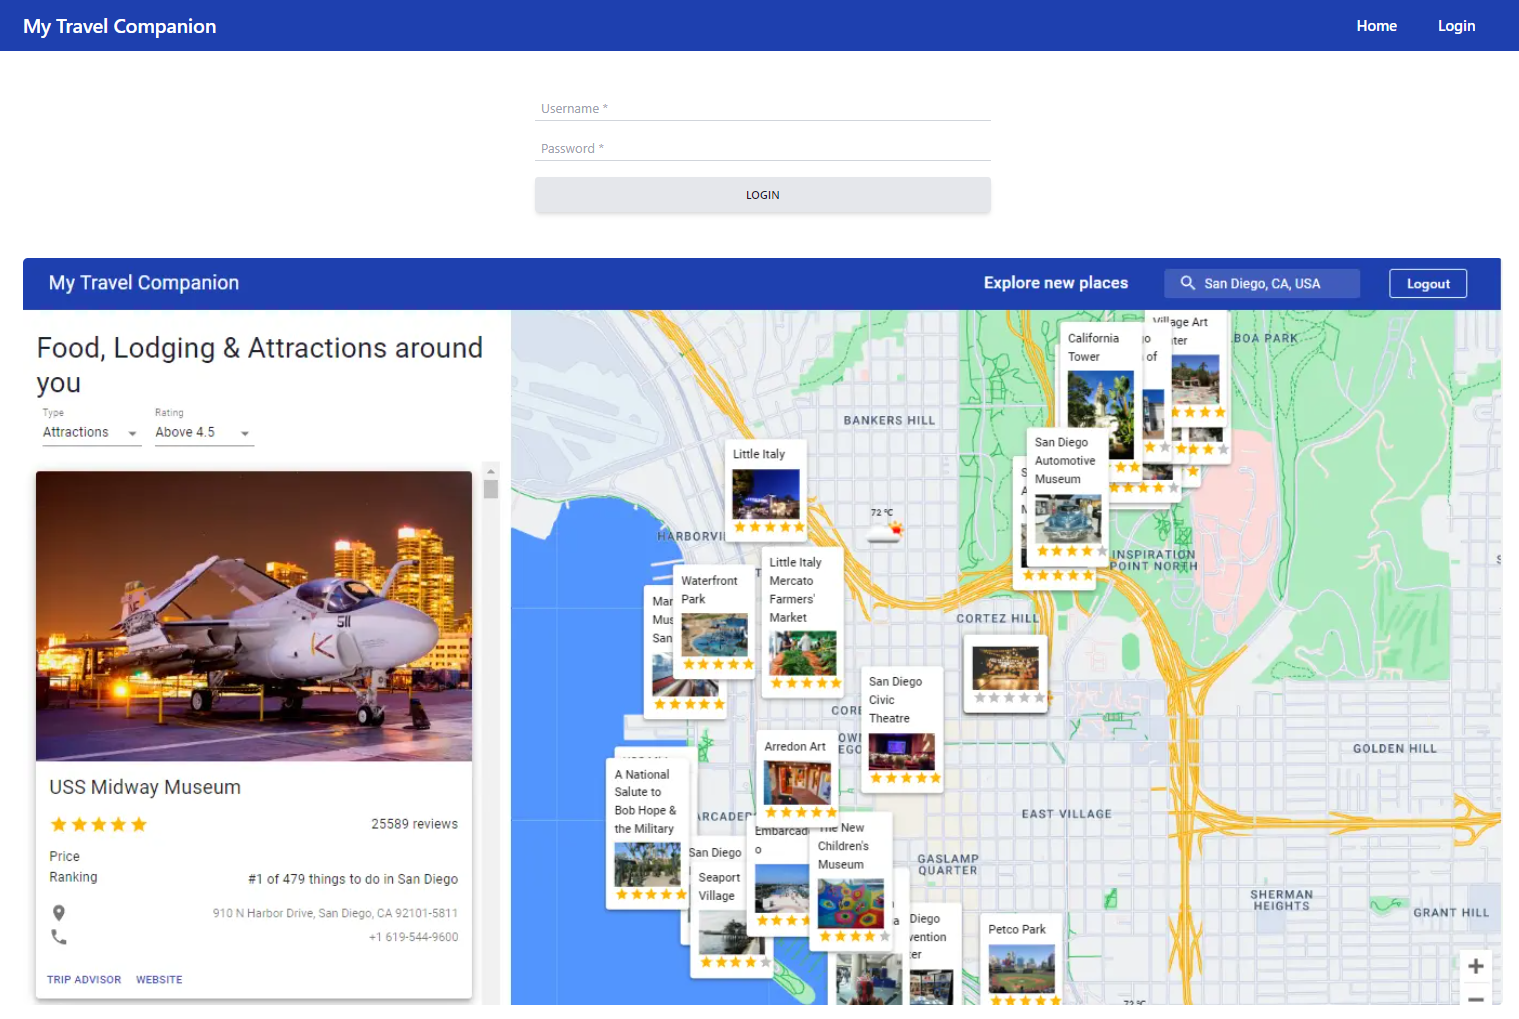
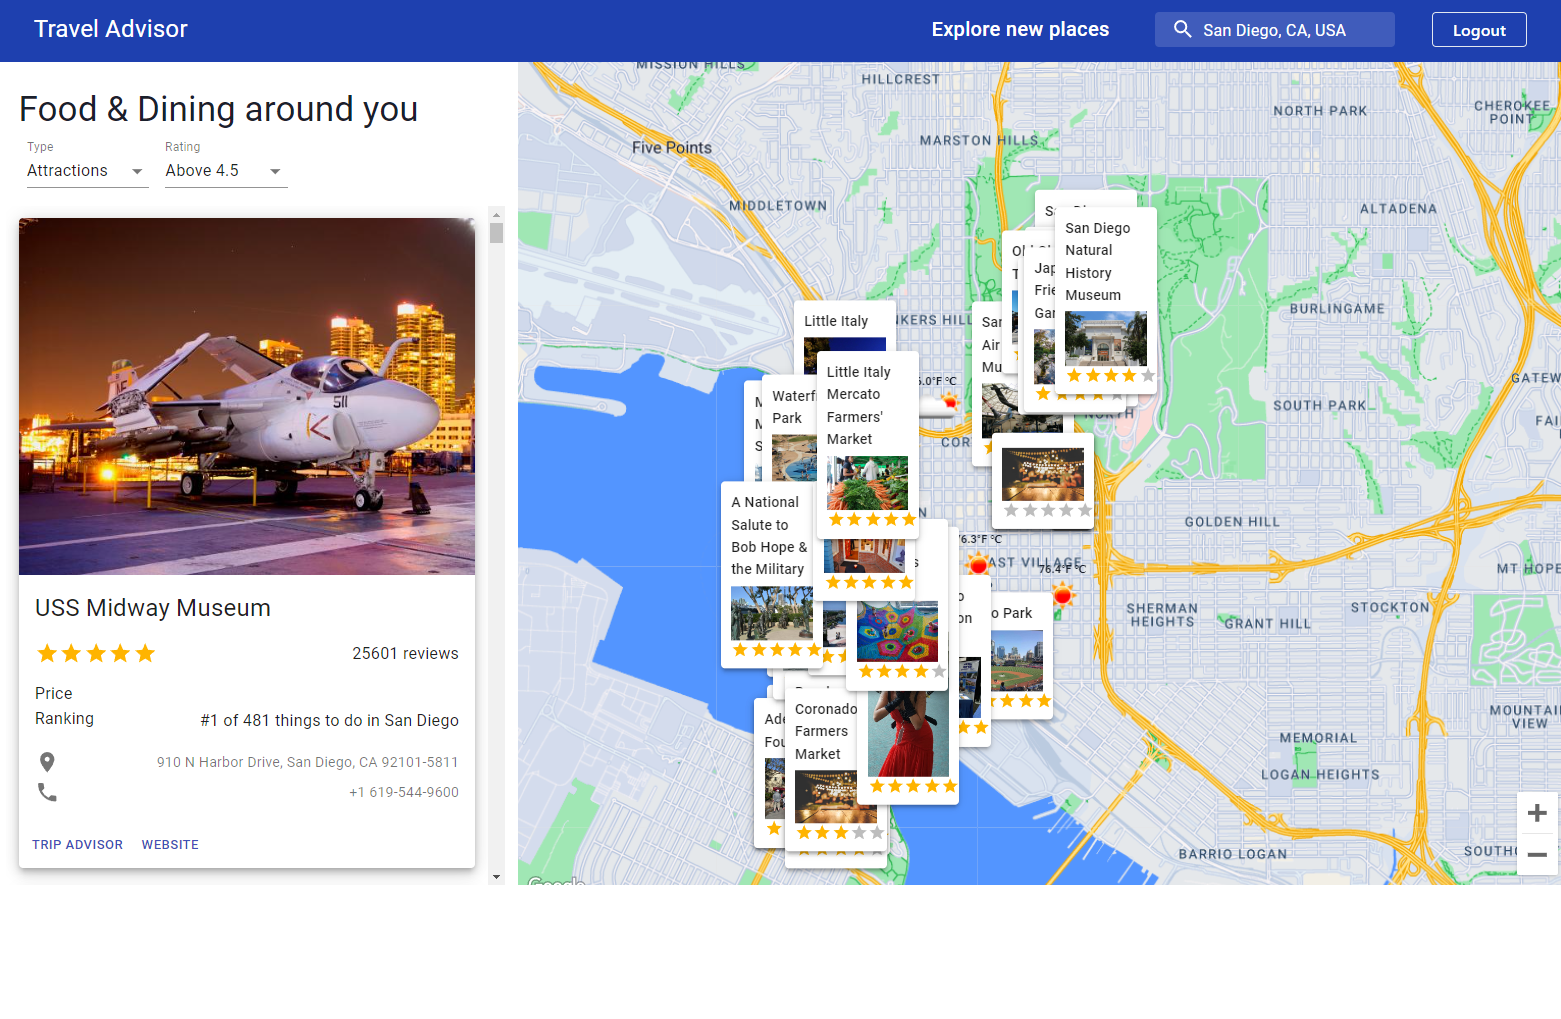
...

diff --git a/components/Map/Map.jsx b/components/Map/Map.jsx
@@ -11,7 +11,7 @@ import useStyles from "./styles.js";
 const WeatherIcon = ({ weather }) => {
   return (
     <div className="w-16 flex flex-col gap-0 justify-center items-center">
-      <span className="font-bold">{((((weather.main.temp) - 273.15)*1.8)+32).toFixed(1) } <span>&#8451;</span></span>
+      <span className="font-bold">{((((weather.main.temp) - 273.15)*1.8)+32).toFixed(1)  + "°F"} <span>&#8451;</span></span>
       <img height={900} className="w-16 -mt-3" src={`http://openweathermap.org/img/w/${weather.weather[0].icon}.png`} />
 
     </div>

diff --git a/pages/api/index.js b/pages/api/index.js
@@ -12,6 +12,7 @@ export const getPlacesData = async (type, sw, ne) => {
               bl_longitude: sw.lng,
               tr_longitude: ne.lng,
               tr_latitude: ne.lat,
+              units: 'imperial',
           },
           headers: {
             "x-rapidapi-key":

diff --git a/README.md b/README.md
@@ -11,7 +11,7 @@ Throughout the process we follow:
 - Creating a User Interface using Material UI
 - Working with Google Maps API
 - Fetching data from unlimited sources using RapidAPI
-- The target users of this app are those that can go to one location to pull location data (restaurant, lodging, attractions) as opposed to multiple locations such as Google Map then separately like Yelp or similar crowd-sourced reviews about businesses. 
+- The target users of this app are those that can go to one location to pull location data (restaurant, lodging, attractions) as opposed to visiting multiple websites such as Google Map or then separately, Yelp or similar crowd-sourced review websites for businesses. 
 - The project was an excellent exercise in becoming better at working with APIs.
 
 ## ROUTES : Basic Authentication
